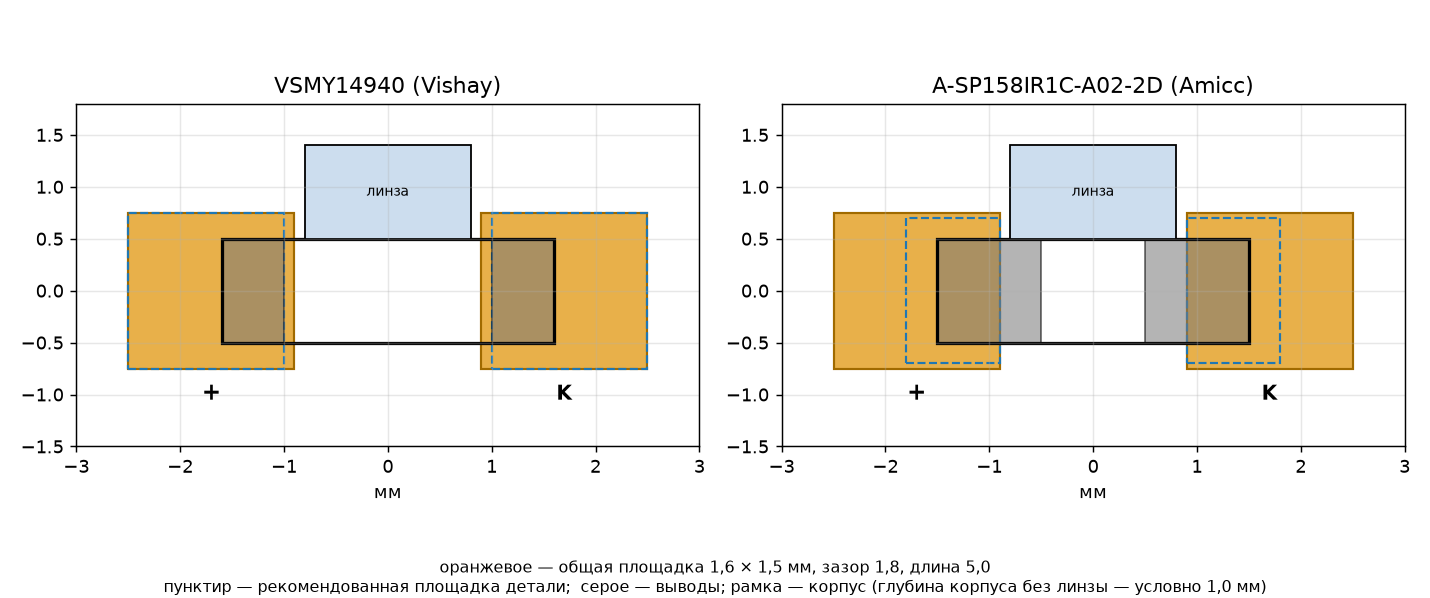
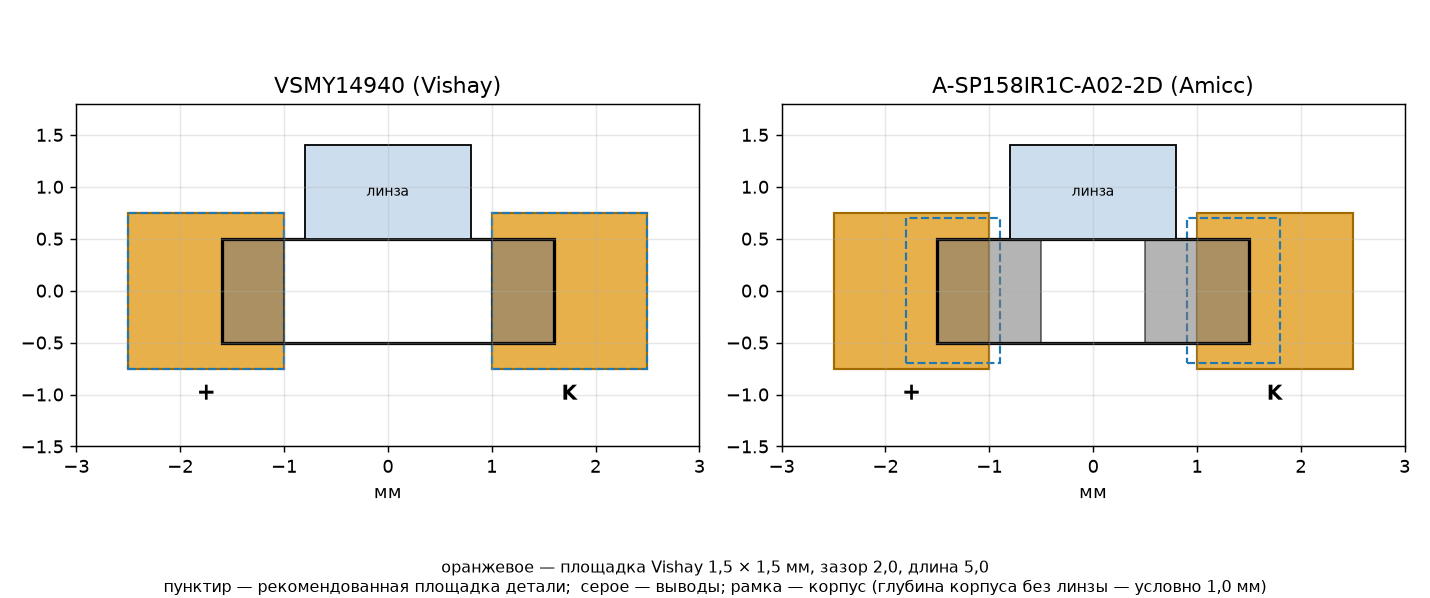
hardware: площадки ИК-светодиода — по даташиту Vishay, Amicc паяется на них вручную
Claude-Session: https://claude.ai/code/session_01Q6s78XLuRYR7xErhSQ4zzc

diff --git a/docs/parts/ir_led_footprint.py b/docs/parts/ir_led_footprint.py
@@ -1,11 +1,11 @@
-"""Общее посадочное место ИК-светодиода: VSMY14940 и Amicc A-SP158IR1C-A02-2D (вид сверху на плату).
+"""Площадки VSMY14940 по даташиту Vishay и на них — Vishay и Amicc A-SP158IR1C-A02-2D (вид сверху на плату).
 Размеры — даташиты в docs/parts/. Ось X — вдоль корпуса, Y — к линзе (наружу, к торцу платы)."""
 import matplotlib
 matplotlib.use("Agg")
 import matplotlib.pyplot as plt
 from matplotlib.patches import Rectangle
 
-PAD_W, PAD_D, GAP = 1.6, 1.5, 1.8            # общая площадка
+PAD_W, PAD_D, GAP = 1.5, 1.5, 2.0            # площадка Vishay (рекомендованная)
 fig, axs = plt.subplots(1, 2, figsize=(11, 4.6))
 for ax, name, L, term, rec in [
     (axs[0], "VSMY14940 (Vishay)", 3.2, 0.6, (1.5, 1.5, 2.0)),
@@ -27,7 +27,7 @@ for ax, name, L, term, rec in [
     ax.set_title(name)
     ax.set_xlim(-3, 3); ax.set_ylim(-1.5, 1.8); ax.set_aspect("equal"); ax.grid(alpha=0.3)
     ax.set_xlabel("мм")
-fig.text(0.5, 0.01, "оранжевое — общая площадка 1,6 × 1,5 мм, зазор 1,8, длина 5,0\nпунктир — рекомендованная площадка детали;"
+fig.text(0.5, 0.01, "оранжевое — площадка Vishay 1,5 × 1,5 мм, зазор 2,0, длина 5,0\nпунктир — рекомендованная площадка детали;"
          "  серое — выводы; рамка — корпус (глубина корпуса без линзы — условно 1,0 мм)", ha="center", fontsize=9)
 plt.tight_layout(rect=(0, 0.08, 1, 1))
 plt.savefig(__file__.replace(".py", ".png"), dpi=130)

diff --git a/hardware/README.md b/hardware/README.md
@@ -70,13 +70,13 @@
 | Рекомендованные площадки | 1,5 × 1,5 мм, зазор 2,0, общая длина 5,0 | 0,9 × 1,4 мм, зазор 1,8, общая длина 3,6 |
 | Цена 1+ / склад LCSC 25.11.2026 | $0,79 / 627 шт. | $0,16 / 1 985 шт. |
 
-**Общее посадочное место для обоих** (вместо стандартного у LED1, LED2): две площадки
-**1,6 × 1,5 мм, зазор 1,8 мм, общая длина 5,0 мм**. Это объединение рекомендованных площадок обоих:
-- Vishay: его площадка (зазор 2,0, длина 5,0) целиком внутри; площадка заходит под корпус на 0,1 мм
-  больше рекомендованной — под корпусом между выводами изоляция.
-- Amicc: его площадка (зазор 1,8, длина 3,6) целиком внутри; вывод 1,0 мм лежит на площадке 0,6 мм,
-  площадка выходит за корпус на 1,0 мм — место для жала паяльника и галтели на торцевой выемке.
-- Глубина площадки 1,5 мм покрывает обе (1,5 и 1,4).
+**Посадочное место — рекомендованное Vishay, без изменений** (решение владельца 25.11.2026: важнее
+качественная заводская пайка JLCPCB): две площадки **1,5 × 1,5 мм, зазор 2,0 мм, общая длина 5,0 мм**.
+Amicc на этих площадках паяется вручную:
+- корпус Amicc 3,0 мм перекрывает зазор 2,0 — замыкания нет;
+- вывод Amicc 1,0 мм лежит на площадке 0,5 мм, площадка выходит за корпус на 1,0 мм — место для жала
+  и галтели припоя на торцевой выемке вывода;
+- глубина площадки 1,5 мм покрывает рекомендованную Amicc (1,4).
 
 Линза у обоих на ~0,6 мм над платой (середина высоты 1,2 мм) — окошко в корпусе одно и то же.
 Гипотеза: передняя точка линзы у двух деталей при одном посадочном месте разойдётся на 0,1–0,3 мм
@@ -86,14 +86,14 @@
 вывод 2 — катод, метка катода снизу. На шелкографии у каждой площадки — «+» (анод, к RL) и «K»,
 чтобы ставить по меткам, а не по номерам выводов в библиотеке.
 
-**Ручная пайка Amicc** (на плате, собранной с Vishay, или на пустых площадках): паяльник с жалом
+**Ручная пайка Amicc** (на площадки Vishay, вместо снятого Vishay): паяльник с жалом
 ≤ 1 мм, 300–320 °C; не дольше 5 с на вывод (даташит Amicc: пайка ≤ 5 с). Деталь MSL 3:
 пакет вскрыт больше 168 ч назад — просушить перед пайкой (по условиям на этикетке пакета).
 Снять Vishay — феном или двумя жалами, поочерёдно не греть: корпус маленький.
 
 **Решение:** на первую партию JLCPCB ставит VSMY14940 (гарантирован минимум силы излучения).
-Amicc заказываются отдельно и паяются вручную на часть плат для сравнения (задача 4.5 в
-`openspec/changes/add-board-hardware/tasks.md`). Не хуже Vishay на проекторе — в серии ставим Amicc:
+Amicc заказываются отдельно и паяются вручную на часть плат для сравнения (задача 4.6 в
+`openspec/changes/add-board-hardware/tasks.md`). Не хуже Vishay на проекторе — в серии ставим Amicc (тогда — решить, менять ли площадки под него):
 −$1,3 на плату при двух светодиодах, склад больше.
 
 ## 3. DC-DC CH592 — выключен
@@ -128,7 +128,7 @@ VSW соединён с VDCID.
 | X1 | кварц | 32 МГц, CL 12 пФ, ±20 ppm, 2520 | C124330 | расширенная | $0,32 |
 | Q1 | P-MOSFET защёлки | IRLML6401TRPBF-JSM, SOT-23 | C2874694 | расширенная | $0,06 |
 | Q2, Q3 | N-MOSFET удержание / ИК-ключ | IRLML6344TRPBF (Infineon), SOT-23 | C53550 | расширенная | $0,17–0,24 |
-| LED1, LED2 | ИК 940 нм | VSMY14940, общее посадочное место (§2.1) | C511069 | расширенная | $0,73–0,79 |
+| LED1, LED2 | ИК 940 нм | VSMY14940, площадки по даташиту Vishay (§2.1) | C511069 | расширенная | $0,73–0,79 |
 | LED1, LED2 — замена | ИК 940 нм | Amicc A-SP158IR1C-A02-2D, ручная пайка (§2.1) | C5179598 | расширенная | $0,16 |
 | D1, D2 | кнопка → затвор Q1 | 1N4148WS, SOD-323 | C2128 | базовая | $0,012 |
 | D3, D4 | кнопка → вход МК | RB520S30 (Nexperia), SOD-523, IR ≤ 1 мкА при 10 В | C96237 | расширенная | $0,095 |

diff --git a/hardware/schematic/netlist.md b/hardware/schematic/netlist.md
@@ -55,8 +55,8 @@ Ca1, Ca2 (π-цепь антенны) — только площадки. JP1 —
 - Плата 37 × 24 мм; SW1, SW2 — по длинной оси, центры в 15,5 мм, симметрично.
 - BT1 — на обратной стороне, по центру.
 - LED1, LED2 — у узкого торца напротив петли, линзой наружу; Q3, RL1, RL2, C4 — рядом.
-  Посадочное место — общее для VSMY14940 и Amicc A-SP158IR1C-A02-2D: две площадки 1,6 × 1,5 мм,
-  зазор 1,8 мм, общая длина 5,0 мм; на шелкографии «+» (анод) и «K» (`hardware/README.md` §2.1).
+  Посадочное место — рекомендованное Vishay: площадки 1,5 × 1,5 мм, зазор 2,0 мм, общая длина 5,0 мм
+  (замена Amicc паяется на них вручную); на шелкографии «+» (анод) и «K» (`hardware/README.md` §2.1).
 - Антенна TI AN043 (15,2 × 5,7 мм) — у торца со стороны петли, без меди под ней на обоих слоях;
   U1, X1 и Ra/Ca — у основания антенны.
 - LED3 — под окошком индикатора (место по донору).

diff --git a/openspec/changes/add-board-hardware/design.md b/openspec/changes/add-board-hardware/design.md
@@ -22,8 +22,8 @@
 
 ### Светодиоды у торца
 Боковые VSMY14940 у переднего торца, второй — через JP1 (по умолчанию разомкнута, ток из CR2032 меньше).
-Посадочное место общее с заменой Amicc A-SP158IR1C-A02-2D (C5179598, те же ±9° и ~80 мВт/ср, в 5 раз дешевле):
-площадки 1,6 × 1,5 мм, зазор 1,8, длина 5,0 мм — Amicc паяется руками на ту же плату. Сравнение на проекторе
+Посадочное место — рекомендованное Vishay (1,5 × 1,5 мм, зазор 2,0, длина 5,0 мм), чтобы JLCPCB паял по даташиту.
+Замена Amicc A-SP158IR1C-A02-2D (C5179598, те же ±9° и ~80 мВт/ср, в 5 раз дешевле) паяется на эти площадки вручную. Сравнение на проекторе
 решает, что ставить в серию (`hardware/README.md` §2.1).
 
 ### Первая прошивка — встроенный загрузчик CH592

diff --git a/docs/parts/README.md b/docs/parts/README.md
@@ -11,7 +11,7 @@
 | Q1 | IRLML6401TRPBF-JSM (JSMSEMI) | C2874694 | `IRLML6401TRPBF-JSM_JSMSEMI_C2874694.pdf` |
 | Q2, Q3 | IRLML6344TRPBF (Infineon) | C53550 | `IRLML6344TRPBF_Infineon_C53550.pdf` |
 | LED1, LED2 | VSMY14940 (Vishay) | C511069 | `VSMY14940_Vishay_C511069.pdf`, фото `VSMY14940_photo.png` |
-| LED1, LED2 — замена | A-SP158IR1C-A02-2D (Amicc) | C5179598 | `A-SP158IR1C-A02-2D_Amicc_C5179598.pdf`; общее посадочное место — `ir_led_footprint.png` |
+| LED1, LED2 — замена | A-SP158IR1C-A02-2D (Amicc) | C5179598 | `A-SP158IR1C-A02-2D_Amicc_C5179598.pdf`; на площадках Vishay — `ir_led_footprint.png` |
 | D1, D2 | 1N4148WS (JSCJ) | C2128 | `1N4148WS_JSCJ_C2128.pdf` |
 | D3, D4 | RB520S30 (Nexperia) | C96237 | `RB520S30_Nexperia_C96237.pdf` |
 | LED3 | KT-0603R красный (KENTO) | C2286 | `KT-0603R_red_LED_C2286.pdf` |
